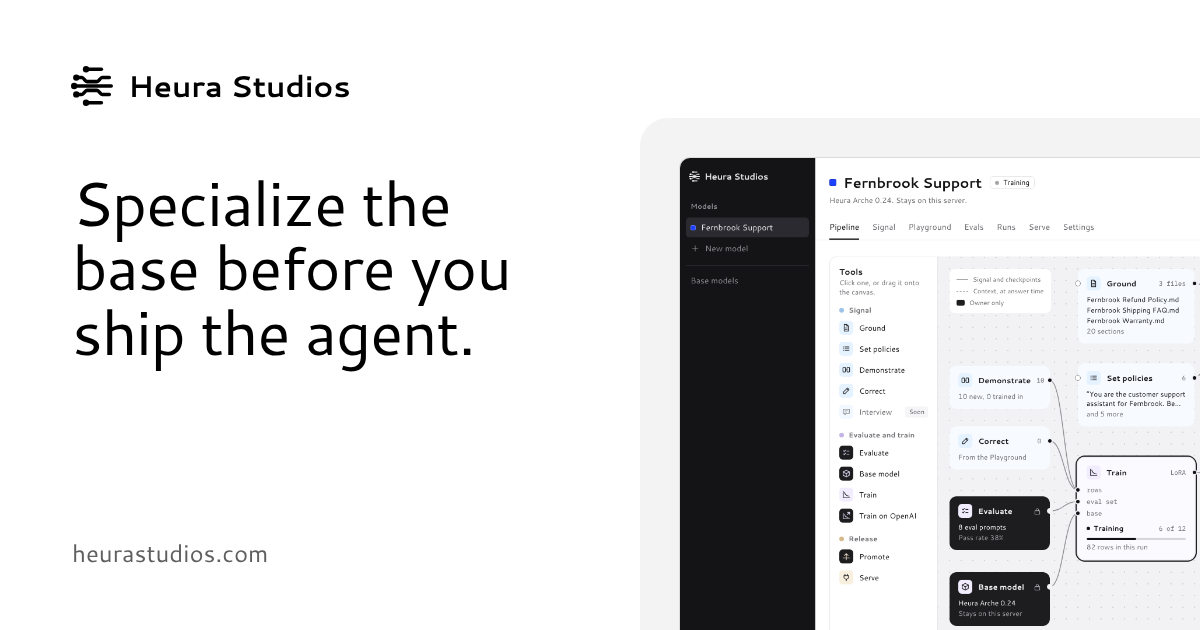
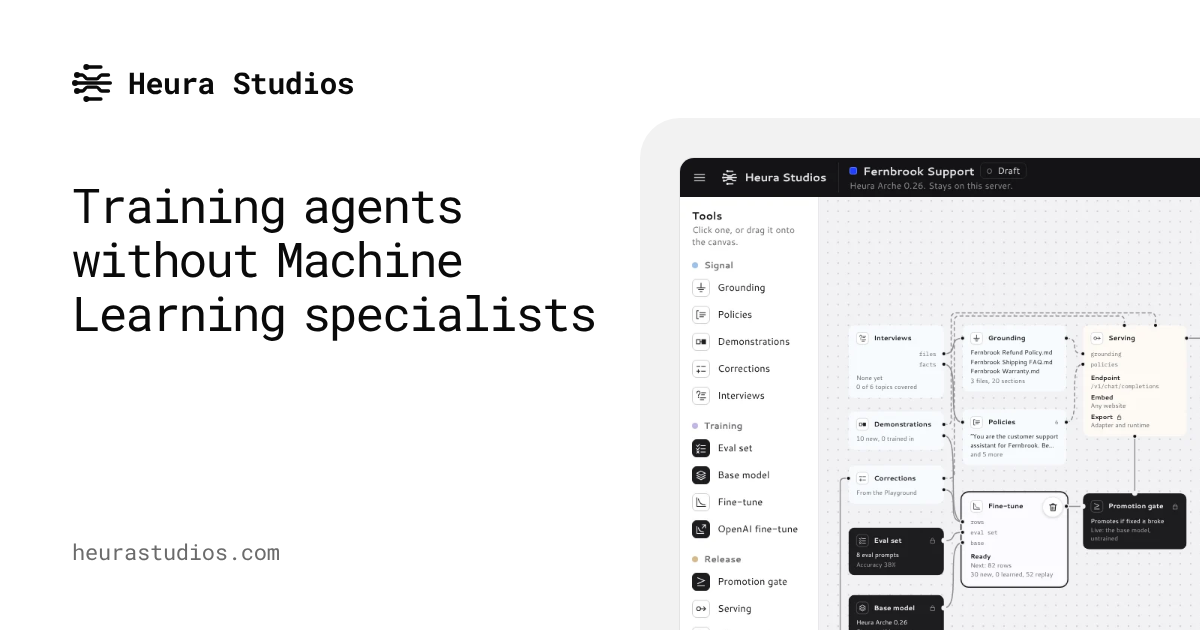
Islands on computers; new headline and card

diff --git a/site.css b/site.css
@@ -91,15 +91,28 @@ button, input { font: inherit; color: inherit; }
 ::selection { background: var(--ink); color: var(--page); }
 .ov-wrap { width: 100%; max-width: 1280px; margin: 0 auto; padding: 0 var(--gutter); }
 
-/* the margins: a backdrop picture on the left and the right, from the top of the screen down to the footer, and the
-   column a sheet on it: the page's color with an edge, so the middle stands out. The picture is one photograph per
-   visit (Ryan, Nov 14: "a shuffle between the mountains, the ocean and the clouds"): the inline script in
-   _includes/head.html picks it and sets html[data-backdrop]; with no script it's the mountains. It covers the screen
-   and stays still while the page scrolls over it: fixed, under everything (the footer has a canvas of its own). In
-   dark it's dimmed. The header covers only the column: it's the sheet's top, with the same edges and, once the page
-   scrolls, its rule (Ryan, Oct 29: "remove these two sides"). Only where a screen leaves room beside the column, so
-   phones and small laptops never download a picture. (--canvas shows while it loads.) */
-@media (min-width: 1360px) {
+/* the picture and the islands (Ryan, Nov 16: "a new concept of just having floating islands for text and make
+   everything else just the background ... like cut the strip in the middle", then "ship the computer version"). On a
+   computer (1024px and wider) the backdrop picture is the background of the whole page, and the words sit on islands
+   floating over it: each section of a page is one (a reading page's one block is one), the page's color, rounded,
+   the picture between and beside them; the header's capsule floats over it and the footer is an island of its own.
+   The picture is one photograph per visit (Ryan, Nov 14: "a shuffle between the mountains, the ocean and the clouds"):
+   the inline script in _includes/head.html picks it and sets html[data-backdrop]; with no script it's the mountains.
+   It covers the screen and stays still while the page scrolls over it: fixed, under everything. In dark it's dimmed.
+   Phones and tablets (under 1024px) keep the page as it was, its own color from edge to edge, and never download a
+   picture. (--canvas shows while it loads.) */
+:root {
+  --isle-w: 1280px;                         /* an island at its widest: as wide as the column's sheet was */
+  --isle-side: clamp(12px, 2.2vw, 32px);    /* the picture beside an island, at least */
+  --isle-gap: clamp(20px, 2.6vw, 36px);     /* the picture between two islands */
+  --isle-pad: clamp(20px, 4vw, 56px);       /* the words in from an island's edges */
+  --isle-r: clamp(20px, 2.4vw, 32px);       /* its corners */
+  --isle-edge: transparent;                 /* its outline: in dark the line, so a black island stands off the picture */
+  --isle-shadow: 0 1px 2px rgb(0 0 0 / .06), 0 24px 60px -28px rgb(0 0 0 / .45);   /* in light a shadow does that */
+}
+:root[data-theme="dark"] { --isle-edge: #262626; --isle-shadow: 0 0 #0000; }   /* (no shadow: one that draws nothing) */
+@media (prefers-color-scheme: dark) { :root:not([data-theme="light"]) { --isle-edge: #262626; --isle-shadow: 0 0 #0000; } }
+@media (min-width: 1024px) {
   body::before {
     content: ""; position: fixed; inset: 0; z-index: -1; pointer-events: none;
     background: var(--canvas) url(/img/backdrops/mountains.webp) center / cover no-repeat;
@@ -112,13 +125,18 @@ button, input { font: inherit; color: inherit; }
   :root[data-backdrop="clouds-bank"] body::before { background-image: url(/img/backdrops/clouds-bank.webp); }
   :root[data-backdrop="clouds-above"] body::before { background-image: url(/img/backdrops/clouds-above.webp); }
   :root[data-theme="dark"] body::before { filter: brightness(.45); }
-  main { position: relative; isolation: isolate; }
-  main::before {   /* the sheet: as wide as .ov-wrap, its words 48px in from each edge */
-    content: ""; position: absolute; top: 0; bottom: 0; left: calc(50% - 640px); width: 1280px; z-index: -1;
-    background: var(--page); box-shadow: -1px 0 var(--line), 1px 0 var(--line); pointer-events: none;
+  :root > body > main { padding: 0 0 var(--isle-gap); }   /* (the pages' own spacing is the islands' now) */
+  main > :is(section, article, .ov-wrap, .hm-top) {
+    width: min(var(--isle-w), 100% - 2 * var(--isle-side)); max-width: none;
+    margin: var(--isle-gap) auto 0; padding: var(--isle-pad);
+    border-radius: var(--isle-r); background: var(--page);
+    box-shadow: 0 0 0 1px var(--isle-edge), var(--isle-shadow);
+    overflow-x: clip;   /* (what's drawn past an island's sides, the legal titles' wires, stops at its edge) */
   }
+  main > :is(.lg-wrap, .bl-wrap) { --isle-w: 880px; }   /* a reading page's island: as narrow as its column was */
+  main > :is(section, .hm-top) .ov-wrap { max-width: none; padding: 0; }   /* (the island holds the words in) */
 }
-@media (min-width: 1360px) and (prefers-color-scheme: dark) {   /* (dark with no script: the system's setting) */
+@media (min-width: 1024px) and (prefers-color-scheme: dark) {   /* (dark with no script: the system's setting) */
   :root:not([data-theme="light"]) body::before { filter: brightness(.45); }
 }
 
@@ -167,16 +185,13 @@ button, input { font: inherit; color: inherit; }
 .ov-btn-small::before { content: ""; position: absolute; inset: -4px 0; } /* 44px to tap */
 
 /* ---- header (Ryan, Nov 14: a redesign of the top; he chose "the one thats on the side"): a capsule floating at the
-   top of the page, outlined in the page's line, holding the logo, the two sections and Request access. The strip
-   it floats in is the page's color, so the page scrolls away under it. */
+   top of the page, outlined in the page's line, holding the logo, the two sections and Request access. On a phone or
+   a tablet the strip it floats in is the page's color, so the page scrolls away under it; on a computer there's no
+   strip: it floats over the picture, the islands passing under it (see the islands, above). */
 .ov-top { position: sticky; top: 0; z-index: 10; padding-top: 12px; background: var(--page); }
-@media (min-width: 1360px) {   /* beside the column, the picture (see the margins, above): the header is the sheet's top */
+@media (min-width: 1024px) {
   .ov-top { background: none; }
-  .ov-top::before {   /* and the sheet runs on a screen's height above the page (Ryan, Nov 14: "when i scroll up theres
-                         still the black part"): pulling the page down past its top shows more sheet, not the picture */
-    content: ""; position: absolute; top: -100vh; bottom: 0; left: calc(50% - 640px); width: 1280px; z-index: -1;
-    background: var(--page); box-shadow: -1px 0 var(--line), 1px 0 var(--line); pointer-events: none;
-  }
+  .ov-top-row { box-shadow: var(--isle-shadow); }
 }
 .ov-top-row {
   display: flex; align-items: center; gap: 24px; min-height: 56px;
@@ -250,13 +265,13 @@ button, input { font: inherit; color: inherit; }
   color: var(--ink); font-size: 15px; line-height: 1.5;
   overflow-x: hidden; overflow-x: clip;   /* (the wires at its ends run on past the screen's edges) */
 }
-/* pulled on past the page's end (the browser's bounce), more footer: not the margins' picture or the page's color under
-   it (Ryan, Nov 15: "fix that gap too"). What a bounce uncovers there, in Chromium: where something is fixed (the
-   margins' picture, on a wide screen), the picture and whatever the page draws past its end on a layer of its own; so
-   the footer's canvas runs a screen's height on below it, the shadow of an empty box at its bottom, on its own layer
-   (will-change). A shadow is drawn but never scrolled to: the page still ends where the footer does. Where nothing is
-   fixed, the root's background: the footer's canvas too while the page is in its lower half (site.js sets
-   .ov-lower-half), the page's own color in its upper half, so a pull past the top shows the page's. */
+/* pulled on past the page's end (the browser's bounce) on a phone or a tablet, more footer: not the page's color under
+   it (Ryan, Nov 15: "fix that gap too"). What a bounce uncovers there, in Chromium: where nothing is fixed, the root's
+   background, so it's the footer's canvas while the page is in its lower half (site.js sets .ov-lower-half) and the
+   page's own color in its upper half, so a pull past the top shows the page's. Where something is fixed, whatever the
+   page draws past its end on a layer of its own: so the footer's canvas also runs a screen's height on below it, the
+   shadow of an empty box at its bottom, on its own layer (will-change); a shadow is drawn but never scrolled to, so
+   the page still ends where the footer does. (On a computer a bounce shows the picture, fixed behind it all.) */
 @media screen {
   .ov-foot { position: relative; }
   .ov-foot::after {
@@ -264,6 +279,15 @@ button, input { font: inherit; color: inherit; }
     box-shadow: 0 50vh 0 50vh var(--page); will-change: transform;
   }
   :root.ov-lower-half { background: #0c0c0c; }
+}
+/* on a computer the footer is an island too, the last one, the picture around it (Ryan, Nov 16); past the end of the
+   page is the picture, so there's nothing to run on below it */
+@media (min-width: 1024px) {
+  .ov-foot {
+    width: min(var(--isle-w), 100% - 2 * var(--isle-side)); margin: var(--isle-gap) auto;
+    border-top: 0; border-radius: var(--isle-r); box-shadow: 0 0 0 1px var(--isle-edge), var(--isle-shadow);
+  }
+  .ov-foot::after { display: none; }
 }
 @media (prefers-contrast: more) { .ov-foot { --ink-2: #d6d6d6; --line: #7a7a7a; --node-edge: #7a7a7a; --wire: #a3a3a3; } }
 

diff --git a/index.html b/index.html
@@ -8,39 +8,41 @@ css: [/home.css]
 js: [/form.js, /recording.js, /home.js]
 ---
 <main id="main">
-  <section class="hm-hero" aria-labelledby="hm-title">
-    <div class="ov-wrap hm-hero-row">
-      <h1 id="hm-title" class="ov-display hm-title">Specialize the base before you ship the agent.</h1>
-      <div class="hm-hero-side">
-        <p class="ov-lead">Fine-tune the base on your team’s examples.<br> Test every version on your eval set.<br> Ship only the ones that don’t get worse.</p>
-      </div>
-    </div>
-  </section>
-
-  {%- comment -%}
-    Screen recording of one run (made with _tools/record-pipeline.py). home.js handles play/pause, light/dark and
-    reduced motion. Without JS the browser's own controls show. Phone-sized files first; .mp4 before .webm for iPhones.
-  {%- endcomment %}
-  <section class="hm-run" aria-labelledby="hm-run-title">
-    <div class="ov-wrap">
-      <h2 id="hm-run-title" class="ov-sr">A run in Heura Studios</h2>
-      <figure class="hm-film">
-        <div class="hm-frame">
-          <video class="hm-video" width="1440" height="900" muted loop playsinline controls preload="none"
-            data-light="/img/pipeline-run" data-dark="/img/pipeline-run-dark"
-            data-phone-light="/img/pipeline-run-phone" data-phone-dark="/img/pipeline-run-phone-dark"
-            aria-describedby="hm-run-caption">
-            <source src="/img/pipeline-run-phone.mp4" type="video/mp4" media="(max-width: 599px)">
-            <source src="/img/pipeline-run-phone.webm" type="video/webm" media="(max-width: 599px)">
-            <source src="/img/pipeline-run.mp4" type="video/mp4">
-            <source src="/img/pipeline-run.webm" type="video/webm">
-          </video>
+  <div class="hm-top">
+    <section class="hm-hero" aria-labelledby="hm-title">
+      <div class="ov-wrap hm-hero-row">
+        <h1 id="hm-title" class="ov-display hm-title">Training agents without Machine Learning specialists</h1>
+        <div class="hm-hero-side">
+          <p class="ov-lead">Fine-tune the base on your team’s examples.<br> Test every version on your eval set.<br> Ship only the ones that don’t get worse.</p>
         </div>
-        <button class="hm-toggle" type="button" aria-label="Pause the recording" hidden>Pause</button>
-        <figcaption id="hm-run-caption" class="hm-caption">One run on a sample model in Heura Studios: 82 training rows (10 demonstrations and the replay mix), scored on the eval set before and after, promoted on a tie.</figcaption>
-      </figure>
-    </div>
-  </section>
+      </div>
+    </section>
+
+    {%- comment -%}
+      Screen recording of one run (made with _tools/record-pipeline.py). home.js handles play/pause, light/dark and
+      reduced motion. Without JS the browser's own controls show. Phone-sized files first; .mp4 before .webm for iPhones.
+    {%- endcomment %}
+    <section class="hm-run" aria-labelledby="hm-run-title">
+      <div class="ov-wrap">
+        <h2 id="hm-run-title" class="ov-sr">A run in Heura Studios</h2>
+        <figure class="hm-film">
+          <div class="hm-frame">
+            <video class="hm-video" width="1440" height="900" muted loop playsinline controls preload="none"
+              data-light="/img/pipeline-run" data-dark="/img/pipeline-run-dark"
+              data-phone-light="/img/pipeline-run-phone" data-phone-dark="/img/pipeline-run-phone-dark"
+              aria-describedby="hm-run-caption">
+              <source src="/img/pipeline-run-phone.mp4" type="video/mp4" media="(max-width: 599px)">
+              <source src="/img/pipeline-run-phone.webm" type="video/webm" media="(max-width: 599px)">
+              <source src="/img/pipeline-run.mp4" type="video/mp4">
+              <source src="/img/pipeline-run.webm" type="video/webm">
+            </video>
+          </div>
+          <button class="hm-toggle" type="button" aria-label="Pause the recording" hidden>Pause</button>
+          <figcaption id="hm-run-caption" class="hm-caption">One run on a sample model in Heura Studios: 82 training rows (10 demonstrations and the replay mix), scored on the eval set before and after, promoted on a tie.</figcaption>
+        </figure>
+      </div>
+    </section>
+  </div>
 
   <section class="ov-section" id="specs" aria-labelledby="hm-specs-title">
     <div class="ov-wrap ov-split">

diff --git a/home.css b/home.css
@@ -3,8 +3,11 @@
 /* the hero (Ryan, Nov 14: "the one thats on the side", then "make the spacing a bit tighter"): the headline and,
    under it, the lead, on the left */
 .hm-hero { padding-top: clamp(32px, 4vw, 64px); }
-.hm-title { max-width: 15em; }
+.hm-title { max-width: 16em; }   /* (two lines on a computer: "Training agents without / Machine Learning specialists") */
 .hm-hero-side { max-width: 40em; margin-top: clamp(14px, 1.2vw, 18px); }
+/* on a computer the hero and the recording share the first island (Ryan, Nov 16: fewer boxes up top), its own
+   padding the hero's top (site.css, the islands) */
+@media (min-width: 1024px) { .hm-top > .hm-hero { padding-top: 0; } }
 
 /* the recording: a run in Heura Studios, in a thin frame */
 .hm-run { margin-top: clamp(32px, 3.6vw, 56px); }
@@ -52,6 +55,13 @@
 .hm-specs dd { font-size: 16px; line-height: 1.5; color: var(--ink-2); text-wrap: pretty; }
 .hm-specs code { font-family: ui-monospace, "SF Mono", Menlo, Consolas, monospace; font-size: .9em; }
 @media (max-width: 559px) { .hm-specs > div { grid-template-columns: minmax(0, 1fr); row-gap: 4px; } }
+/* on a computer, on its island: the title over the list, the list in two columns, so the island has no empty side */
+@media (min-width: 1024px) {
+  #specs > .ov-split { grid-template-columns: minmax(0, 1fr); }
+  #specs > .ov-split > .ov-head + * { margin-top: clamp(32px, 3vw, 48px); }
+  .hm-specs { display: grid; grid-template-columns: repeat(2, minmax(0, 1fr)); column-gap: clamp(32px, 4vw, 64px); }
+  .hm-specs > div:nth-last-child(2):nth-child(odd) { border-bottom: 1px solid var(--line); }
+}
 
 .hm-request { padding-bottom: clamp(88px, 10vw, 144px); }
 /* the way in for teams that have access: where Request access leads, not in the header (Ryan, Oct 19) */
